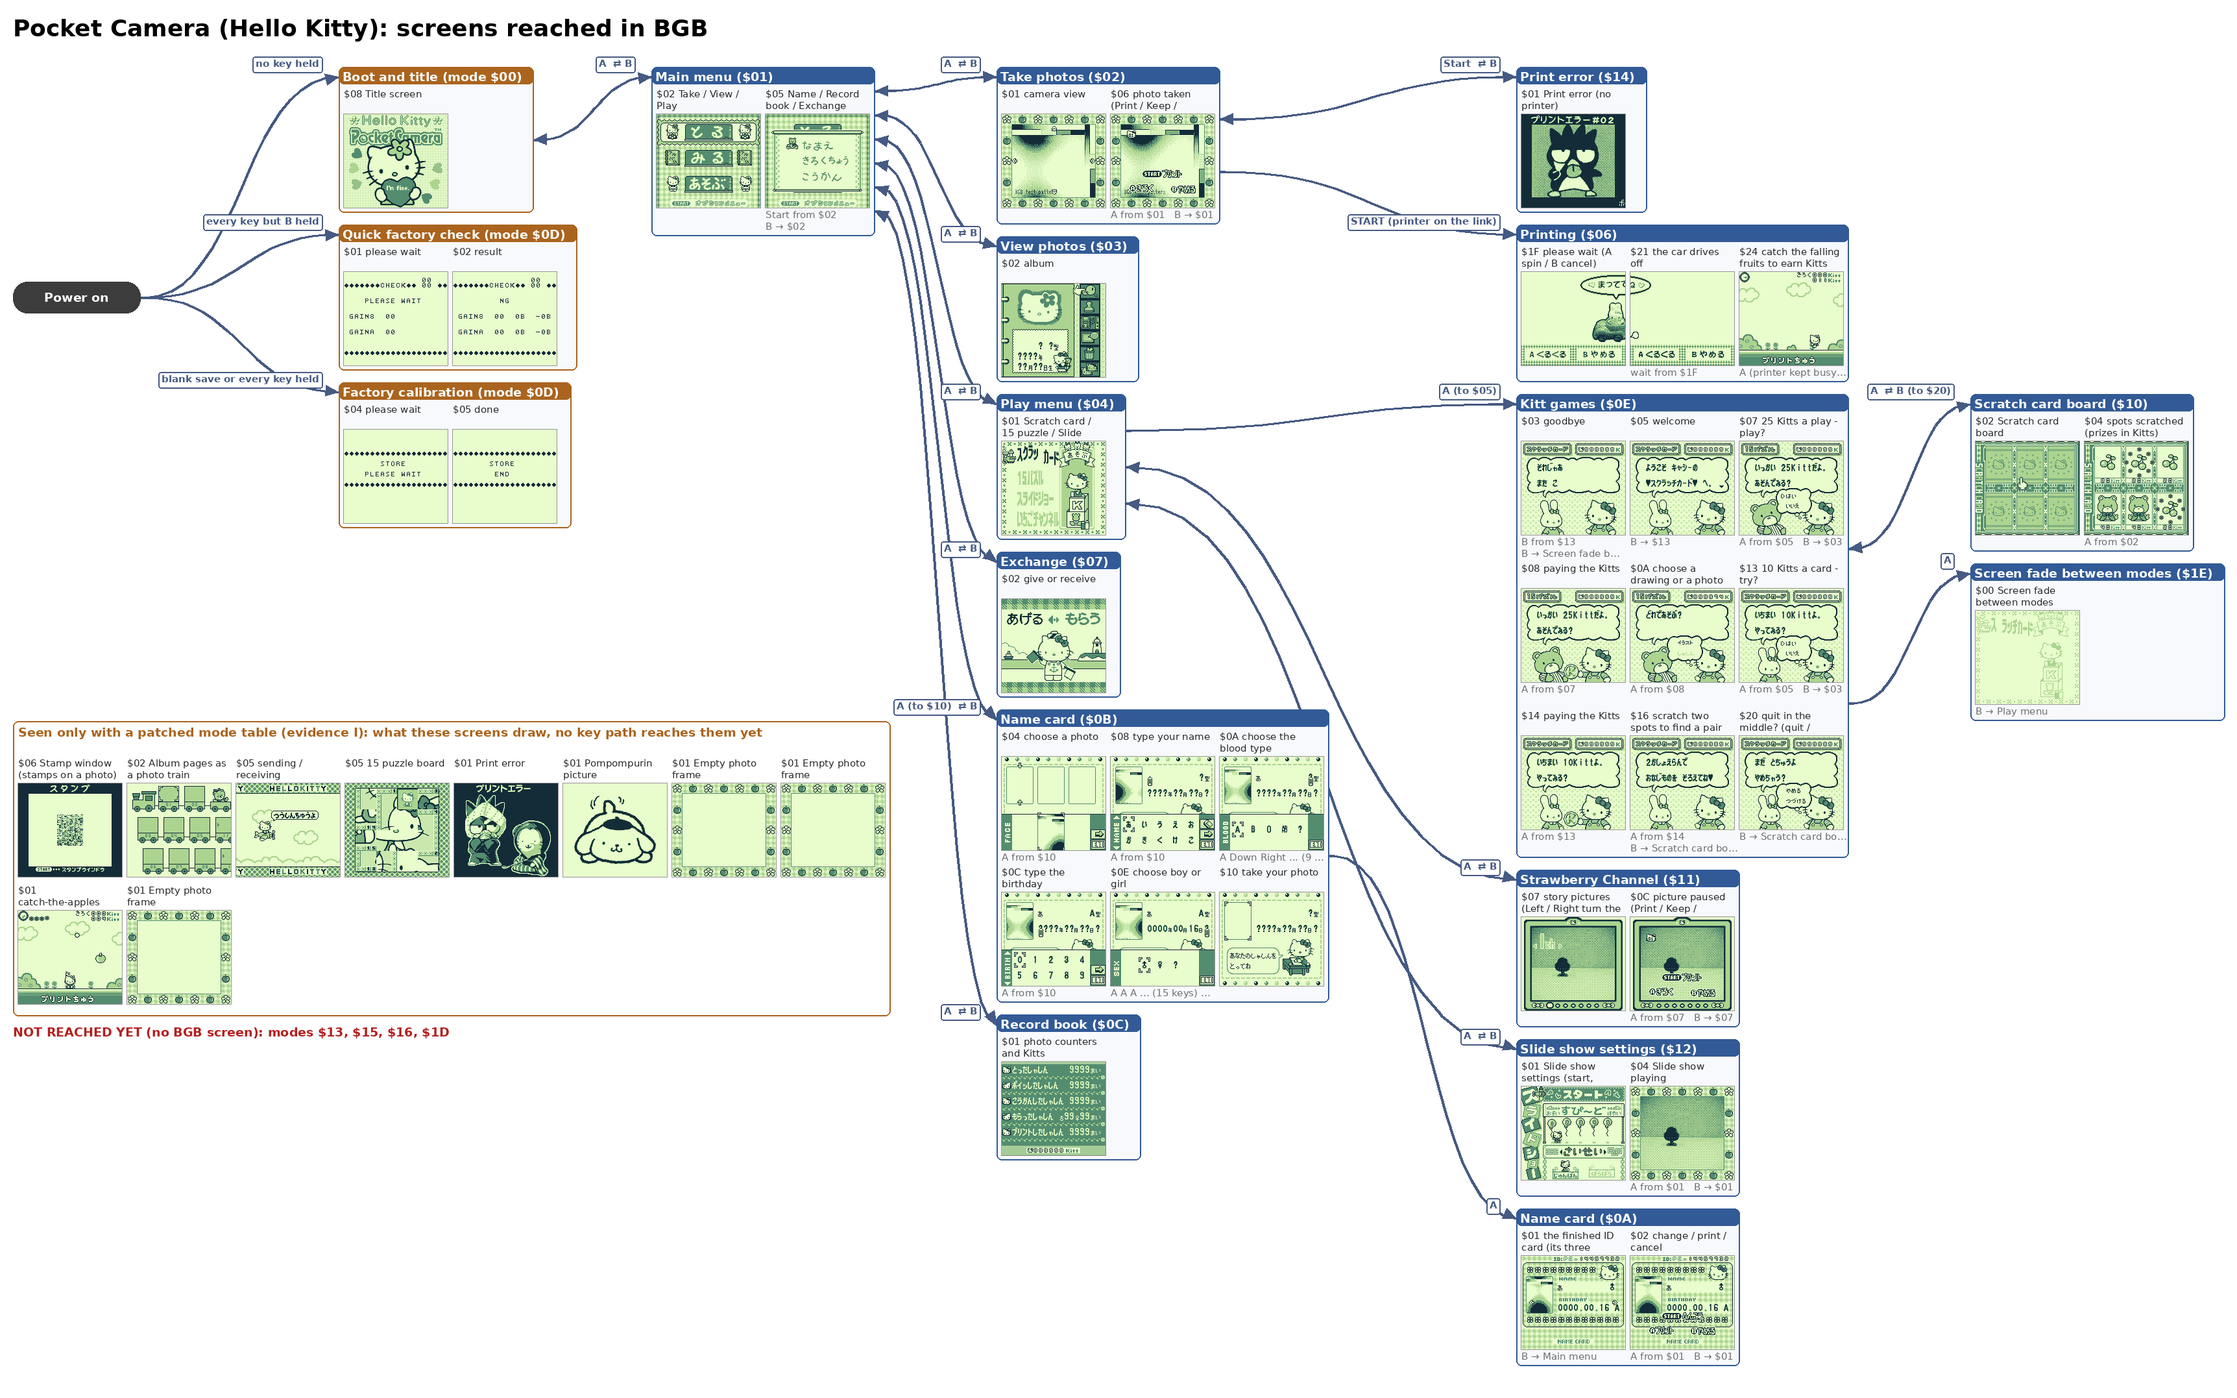
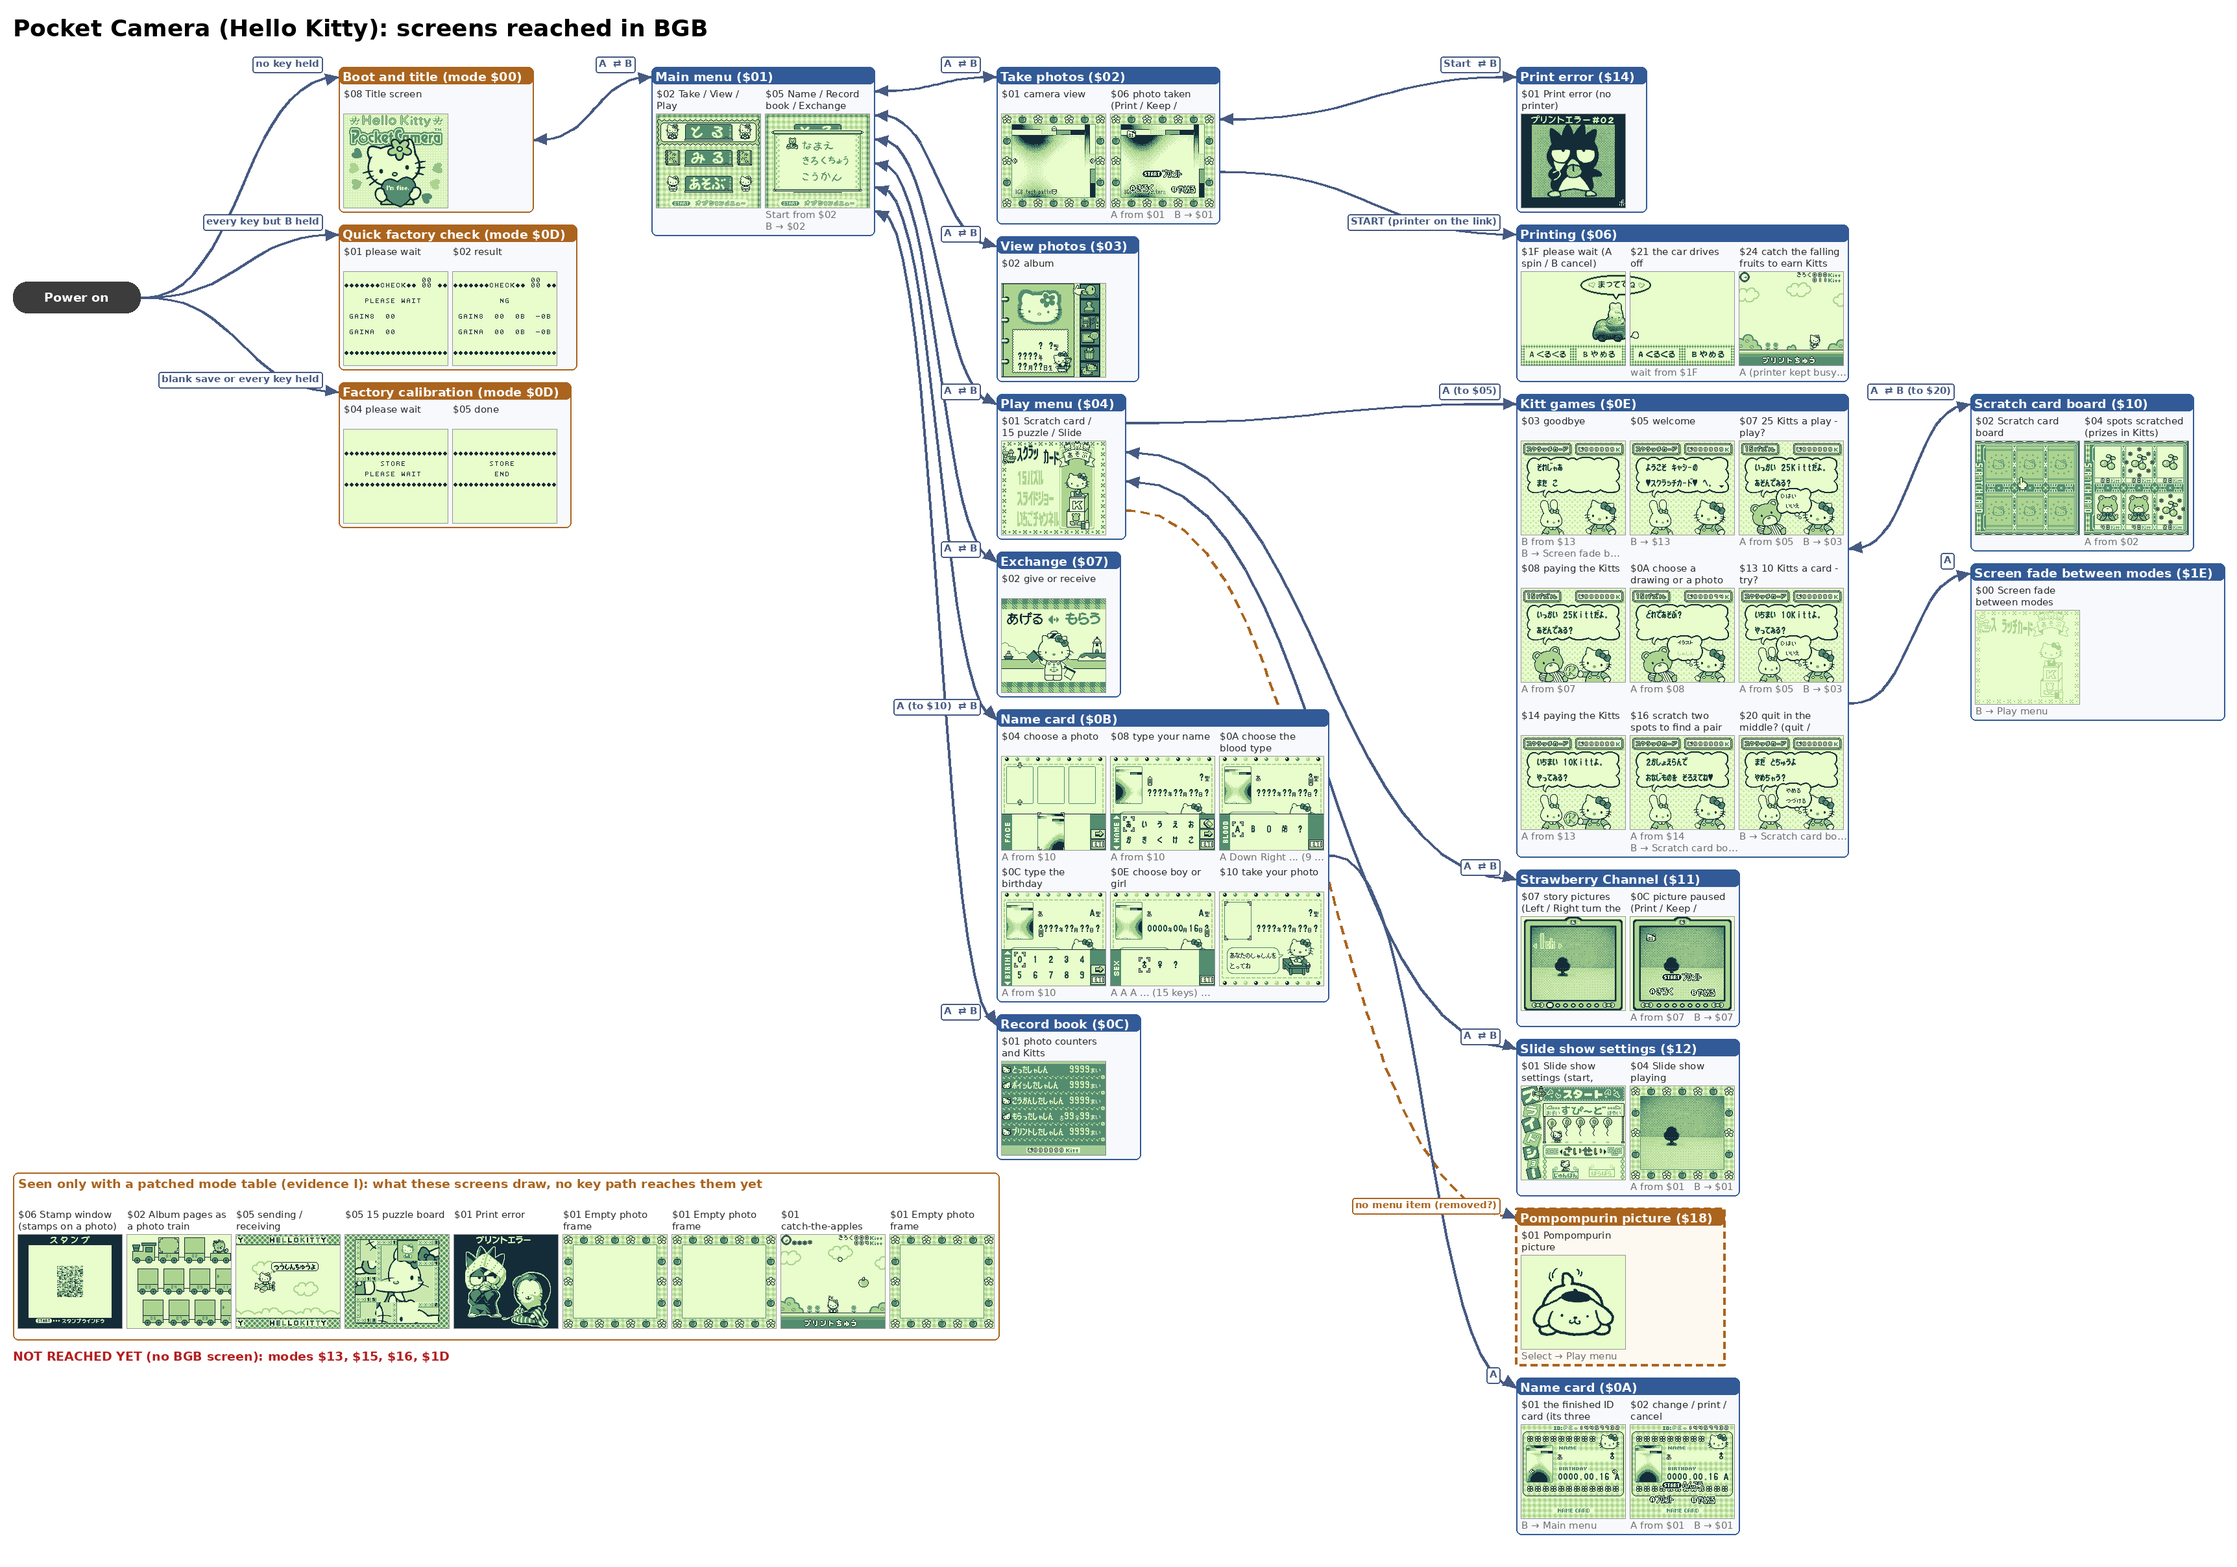
Hello Kitty: mode $18 (Pompompurin picture) shown unreachable and tagged Unused_; drawn in the tree under the Play menu with a dashed branch
Claude-Session: https://claude.ai/code/session_011bkRcFvDptjxMkMYasBR8N

Changed region(s): [[0.0, 0.0, 0.993, 0.9954]]

diff --git a/tools/screen_tree.py b/tools/screen_tree.py
@@ -10,6 +10,8 @@
                 with 'forced' = seen only with a patched mode table: drawn in a box of their own, evidence I); a screen that is not a
                 (mode, state) of the mode table (the factory screens of the retail ROMs run before it) takes a word as mode and state
                 and its caption from `name`
+                a forced row with a `parent` (the screen the code says leads there) is drawn in the tree instead, panel and
+                arrow dashed in orange (evidence I); a `note` column adds a line under its screenshot
 --cancel CSV    tools/screen_cancel.py: B back to the panel it came from = a two-headed arrow; B elsewhere = a note under the screenshot
 --lr            left to right (power-on at the left), columns = steps from power-on, packed top-down; else graphviz top-down
 --names CSV     mode, state, name: the caption of each screenshot; the text before ':' of the first name titles the panel
@@ -61,12 +63,15 @@ for k in shots:
     for n in range(len(ks) - 1, -1, -1):
         q = bykeys.get(' '.join(ks[:n]))
         if q and q != k: parent[k] = (q, ' '.join(ks[n:])); break
+hyp = set(); xnote = {}
 for f in a.extra:
     for r in csv.DictReader(open(f)):
         k = (r['mode'], r['state'])
         if k in shots or k in forced: continue
         p = os.path.join(os.path.dirname(f), r['picture'])
-        if r.get('how', '').startswith('forced'): forced[k] = p; continue
+        if r.get('note'): xnote[k] = r['note']
+        if r.get('how', '').startswith('forced') and not r.get('parent'): forced[k] = p; continue
+        if r.get('how', '').startswith('forced'): hyp.add(k)        # reached only when forced, drawn where the code says it belongs: dashed
         shots[k] = p; how[k] = r.get('how', '')
         if r.get('name'): names.setdefault(k, r['name'])        # screens outside the mode table (boot gates) carry their own name
         if r.get('parent'): parent[k] = (tuple(r['parent'].split(':')), r.get('key', ''))
@@ -92,6 +97,7 @@ for k in sorted(shots):
 for k in sorted(shots): P[panel_of[k]]['cells'].append(k)
 for pid in list(P):
     if not P[pid]['cells']: del P[pid]
+    else: P[pid]['hyp'] = all(k in hyp for k in P[pid]['cells'])
 # ---- cell and panel geometry
 S = a.scale; IW, IH = 160 * S, 144 * S; Z = (1 if S == 1 else 1.4) * a.font
 FT, FP, FC, FK = font(int(26 * Z), True), font(int(14 * Z), True), font(int(11 * Z)), font(int(11 * Z), True)
@@ -130,7 +136,7 @@ for (x, y) in list(E):
     if (y, x) in E and (x, y) in E and list(P).index(x) < list(P).index(y):
         back[(x, y)] = ' / '.join(E.pop((y, x)))
 # ---- cancel edges (tools/screen_cancel.py): B from a screen back to the panel it came from = a two-headed arrow
-cancel_x = []; note = {}
+cancel_x = []; note = dict(xnote)
 for f in a.cancel:
     for r in csv.DictReader(open(f)):
         if r['ok'] != 'yes' or r['to'] == r['base'] or ':' not in r['to']: continue
@@ -145,7 +151,7 @@ for pid, p in P.items():
     p['fromh'] = max([len(came_from(k)) for k in p['cells']] + [0]) * LH + 4
     p['grid'] = (c, r); p['w'] = max(c * IW + (c + 1) * PADC, _M.textlength(p['title'], font=FP) + 24); p['h'] = TITH + r * (CAPH + IH + p['fromh']) + (r + 1) * 3
 M = 20; TOP = int(48 * Z) + int(26 * Z); INK = (40, 40, 40); EDGE = (70, 90, 130); LW = max(3, int(3 * Z)); AH = int(16 * Z)
-boxes = {}; draw_edges = []      # boxes: pid -> (x0, y0, w, h) in picture pixels; draw_edges: (points, label, two_heads, label_pos)
+boxes = {}; draw_edges = []; dashes = []      # boxes: pid -> (x0, y0, w, h) in picture pixels; draw_edges: (points, label, two_heads, label_pos)
 def bez(p0, p1, p2, p3, n=20):
     return [((1 - t) ** 3 * p0[0] + 3 * (1 - t) ** 2 * t * p1[0] + 3 * (1 - t) * t ** 2 * p2[0] + t ** 3 * p3[0],
              (1 - t) ** 3 * p0[1] + 3 * (1 - t) ** 2 * t * p1[1] + 3 * (1 - t) * t ** 2 * p2[1] + t ** 3 * p3[1]) for t in [i / n for i in range(n + 1)]]
@@ -214,7 +220,7 @@ if a.lr:
         if s_ == 'power': lab = P[d_]['how']
         elif (s_, d_) in E: lab = lab_of(s_, d_)
         else: lab = next(k for x_, y_, k in cancel_x if (x_, y_) == (s_, d_))
-        draw_edges.append((pts, lab, (s_, d_) in back, None))
+        draw_edges.append((pts, lab, (s_, d_) in back, None)); dashes.append(P.get(d_, {}).get('hyp', False))
 else:
     DPI = 72.0
     dot = ['digraph G {', 'rankdir=TB; nodesep=0.15; ranksep=%s; splines=true; newrank=true;' % (a.ranksep or 0.35), 'node [shape=box, fixedsize=true, label=""];',
@@ -243,7 +249,7 @@ else:
         for i in range(0, len(pts) - 3, 3): poly += bez(*pts[i:i + 4])
         has = len(rest) >= 5
         draw_edges.append(([(gx(x), gy(y)) for x, y in poly], rest[0] if has else '', (s_, d_) in back,
-                           (gx(float(rest[1]) * DPI), gy(float(rest[2]) * DPI)) if has else None))
+                           (gx(float(rest[1]) * DPI), gy(float(rest[2]) * DPI)) if has else None)); dashes.append(P.get(d_, {}).get('hyp', False))
 def label_at(pts, lab, lp):
     tw = _M.textlength(lab, font=FK)
     return (lp if lp else (pts[-1][0] - AH - tw / 2 - 8, pts[-1][1] - 13 * Z)), tw
@@ -282,14 +288,26 @@ import math
 def head(p_from, p_to):
     (x1, y1), (x2, y2) = p_from, p_to; ang = math.atan2(y2 - y1, x2 - x1)
     d.polygon([(x2, y2), (x2 - AH * math.cos(ang - 0.42), y2 - AH * math.sin(ang - 0.42)), (x2 - AH * math.cos(ang + 0.42), y2 - AH * math.sin(ang + 0.42))], fill=EDGE)
-for pts, lab, two, lp in draw_edges:
-    d.line(pts, fill=EDGE, width=LW, joint='curve'); head(pts[-3], pts[-1])
+HYP = (170, 100, 30)
+def dashed(pts, col, on=14, off=9):
+    run, draw_ = 0.0, True
+    for (x1, y1), (x2, y2) in zip(pts, pts[1:]):
+        L = math.hypot(x2 - x1, y2 - y1); t = 0.0
+        while t < L:
+            step = min((on if draw_ else off) - run, L - t)
+            if draw_: d.line([(x1 + (x2 - x1) * t / L, y1 + (y2 - y1) * t / L), (x1 + (x2 - x1) * (t + step) / L, y1 + (y2 - y1) * (t + step) / L)], fill=col, width=LW)
+            t += step; run += step
+            if run >= (on if draw_ else off): run = 0.0; draw_ = not draw_
+for (pts, lab, two, lp), dsh in zip(draw_edges, dashes):
+    if dsh: dashed(pts, HYP)
+    else: d.line(pts, fill=EDGE, width=LW, joint='curve')
+    EDGE_ = EDGE; head(pts[-3], pts[-1])
     if two: head(pts[2], pts[0])
-for pts, lab, two, lp in draw_edges:
+for (pts, lab, two, lp), dsh in zip(draw_edges, dashes):
     if not lab: continue
-    (lx, ly), tw = label_at(pts, lab, lp)
-    d.rounded_rectangle([lx - tw / 2 - 5, ly - 9 * Z, lx + tw / 2 + 5, ly + 9 * Z], radius=4, fill='white', outline=EDGE, width=2)
-    d.text((lx - tw / 2, ly - 8 * Z), lab, fill=EDGE, font=FK)
+    (lx, ly), tw = label_at(pts, lab, lp); c_ = HYP if dsh else EDGE
+    d.rounded_rectangle([lx - tw / 2 - 5, ly - 9 * Z, lx + tw / 2 + 5, ly + 9 * Z], radius=4, fill='white', outline=c_, width=2)
+    d.text((lx - tw / 2, ly - 8 * Z), lab, fill=c_, font=FK)
 def draw_cell(k, path, x, y, dashed=False):
     for i, l in enumerate(caption(k)): d.text((x, y + i * LH), l, fill=INK, font=FC)
     im = Image.open(path).convert('RGB').resize((IW, IH), Image.NEAREST)
@@ -298,8 +316,9 @@ def draw_cell(k, path, x, y, dashed=False):
     for i, l in enumerate(came_from(k)): d.text((x, y + CAPH + IH + 2 + i * LH), l, fill=(110, 110, 110), font=FC)
 for pid, p in P.items():
     x0, y0, w, h = boxes[pid]
-    col = (170, 100, 30) if p['row'] == 'boot' else (50, 90, 150)
-    d.rounded_rectangle([x0, y0, x0 + w, y0 + h], radius=8, outline=col, width=2, fill=(247, 249, 252))
+    col = (170, 100, 30) if p['row'] == 'boot' or p.get('hyp') else (50, 90, 150)
+    d.rounded_rectangle([x0, y0, x0 + w, y0 + h], radius=8, outline=None if p.get('hyp') else col, width=2, fill=(253, 248, 240) if p.get('hyp') else (247, 249, 252))
+    if p.get('hyp'): dashed([(x0, y0), (x0 + w, y0), (x0 + w, y0 + h), (x0, y0 + h), (x0, y0)], col, 10, 7)
     d.rounded_rectangle([x0, y0, x0 + w, y0 + TITH - 4], radius=8, fill=col)
     d.text((x0 + 6, y0 + 3 * Z), p['title'], fill='white', font=FP)
     c, r = p['grid']

diff --git a/roms/hello_kitty/README.md b/roms/hello_kitty/README.md
@@ -61,7 +61,7 @@ The Kitty engine is not the Japanese one, so this ROM has its own tracer, `tools
 ## L3: names (in progress, 2026-11-08)
 
 * **Data kinds of the layout map (C / I, 2026-11-08).** The automatic `Data_BB_AAAA` labels carry no kind, so `tools/kitty_layout_kinds.py` gives one to their bytes from the evidence, written to [`assets/layout_kind_overrides_kitty.csv`](assets/layout_kind_overrides_kitty.csv) (generated): bytes seen in VRAM tile memory or in a BG map while the four core corpora were replayed (`tools/kitty_display_track.py`, value-matched 16-byte windows of read data, merged in `port/display_kitty.npz`), copies with a constant source (`assets/copy_sites_kitty.csv`), first reads by the sound driver (bank `$0F`) and by the object engine (I). The code colours use this ROM's own modes ([`assets/layout_groups_kitty.csv`](assets/layout_groups_kitty.csv)). Result: 502,742 bytes of Data_ blocks given a kind, 116,824 left uncertain (the named blocks, such as the fonts, take their kind from their name).
-* **Names.** 1,465 names (C 1,347 / I 116 / ? 2), merged from five layers by `tools/kitty_names.py`: 805 block labels by kind and address (L1), 307 mode and state names (`ModeMM_<Name>` from the BGB screens, `ModeMM_StateTable`, `ModeMM_StateSS`; the names of `disasm/mode_names_kitty.csv`, tagged I for the 14 modes seen only forced), 201 names ported from the Japanese ROM, 35 names of edited Japanese routines, 117 hand names (the bank-0 engine, the record book and bank `$05`, `disasm/sym_names_kitty_hand.csv`).
+* **Names.** 1,465 names (C 1,345 / I 118 / ? 2), merged from five layers by `tools/kitty_names.py`: 803 block labels by kind and address (L1), 304 mode and state names (`ModeMM_<Name>` from the BGB screens, `ModeMM_StateTable`, `ModeMM_StateSS`; the names of `disasm/mode_names_kitty.csv`, tagged I for the 14 modes seen only forced), 201 names ported from the Japanese ROM, 35 names of edited Japanese routines, 122 hand names (the bank-0 engine, the record book, bank `$05` and the unused mode `$18`, `disasm/sym_names_kitty_hand.csv`).
 * **Same code as the Japanese ROM (C).** `tools/kitty_match_jp.py` searches every Japanese routine of 12+ bytes in the Kitty code with the build-dependent operands as wildcards (16-bit addresses, the HRAM byte of `ldh`): 230 of 1,891 are found, 204 at exactly one place. They are the **printer protocol** (`Prn_*`, bank 0), the **link cable** (`Link_*`, bank 0), the **sensor bank** (the Japanese bank `$0A` in Kitty bank `$04`: calibration copy and check, exposure bands, threshold convergence, dither ramps, the image effects `Fx*`), the **SRAM magic comparison** (`Sram_CompareMagic`, one Kitty routine for the three Japanese copies, tag ?), and **107 sound-effect routines** of the Japanese sound bank `$1F` in Kitty bank `$0F`. A port is tagged C from 16 bytes, I below.
 * **Edited copies (I).** `tools/kitty_similar_jp.py` compares the instruction sequences of the routines not found exactly: 52 near matches (ratio >= 0.85), among them the **factory calibration** (`Cam_FactoryMeasure1` / `Cam_FactoryMeasure2`, ratio 0.998 / 0.997), the **quick factory check** (`Cam_CalibSanityCheck_Measure`, 0.993), `Cam_CommitVectorToSRAM`, `Sram_ComputeImageChecksums`, `Sgb_SendPacket`, `Img_ReduceToThumbnail` and the flipped image effects.
 * **Owner's hypotheses so far.** Sensor, printer, link and SRAM code: the same routines as the Japanese ROM (C for the exact matches). Sound: the effect routines are shared; the music data is still to compare. Menus: no routine of the other Japanese banks matches (only banks `$00`, `$02`, `$07`, `$0A` and `$1F` have matches; the 31 Kitty modes have their own code).
@@ -73,5 +73,7 @@ The Kitty engine is not the Japanese one, so this ROM has its own tracer, `tools
 ![Screen tree of the Hello Kitty ROM](kitty_screen_tree.png)
 
 Drawn by `tools/make_screen_trees.py` (`tools/screen_tree.py`, left to right) from `screens/` (collected by `tools/screen_collect.py` from the explorations of `tools/kitty_bgb_explore.py`: a breadth-first search over single key taps in the core, each (mode, state) then replayed once in BGB, which must end on the same (mode, state); the start save is the owner's unlocking save, `tools/make_unlocked_saves.py --hello-kitty`). Panels: one per mode, the boot row from `disasm/screen_panels_kitty.csv` (title, quick factory check, factory calibration, each with its power-on condition). Arrows: reached by the keys written on them (C); two-headed when B leads back, from `screens/cancel.csv` (`tools/screen_cancel.py`: each key path replayed in BGB, then the same path plus B; 33 of 33 screens replayed on their screen). Grey notes: the keys inside a panel and B leading elsewhere. Orange box: forced only (I). Names: `disasm/screen_names_kitty.csv` (C = what the BGB screen shows, I = a forced screen). The checker redraws the tree from these files and compares the pixels; new screens need a new exploration in BGB.
+
+**The Pompompurin picture (mode `$18`) is not reachable (C for the code checks, I for its purpose).** Its handler is complete: state `$00` loads one full-screen picture (`Gfx_14_5800_PompompurinPicture`, 6,144 bytes, and `Map_2E_7800_PompompurinPicture`, 1,024 bytes; no other code loads them), state `$01` waits for Select and fades to the Play menu (mode `$04` state `$00`). Nothing leads to it: of the 195 mode-change calls of the ROM (`$0B16`, `$0B22`, `$01C8`, `$01B2`), the only one with mode `$18` is inside mode `$18` itself (`06:415E`, state `$00` to `$01`); the 16 calls with a computed mode return to a saved mode or go to the printing mode, and none of the 11 code sites that load `$18` stores it into a saved-mode slot; the fade object that sets the mode (`02:7EA2`) is created only by `$0B16` / `$0B22`. The Play menu reads its items from 8-byte records (cursor position, the item for each direction, target mode and state): the table `02:5AB7` holds four, scratch card, 15 puzzle, slide show and Strawberry Channel. No core run and no BGB exploration ever showed mode `$18`. Its routines are named `Unused_Mode18_*` (I). Since it returns to the Play menu with Select, it was most likely a Play menu entry taken out of the menu, or a test picture (I); the tree draws it under the Play menu with a dashed orange arrow and border (a placement from the code, not a path).
 
 The ROM is not in the repository (supplied by the owner outside it; md5 `0a323bddc4f0159cea76cf44ed0c1a3c`).
